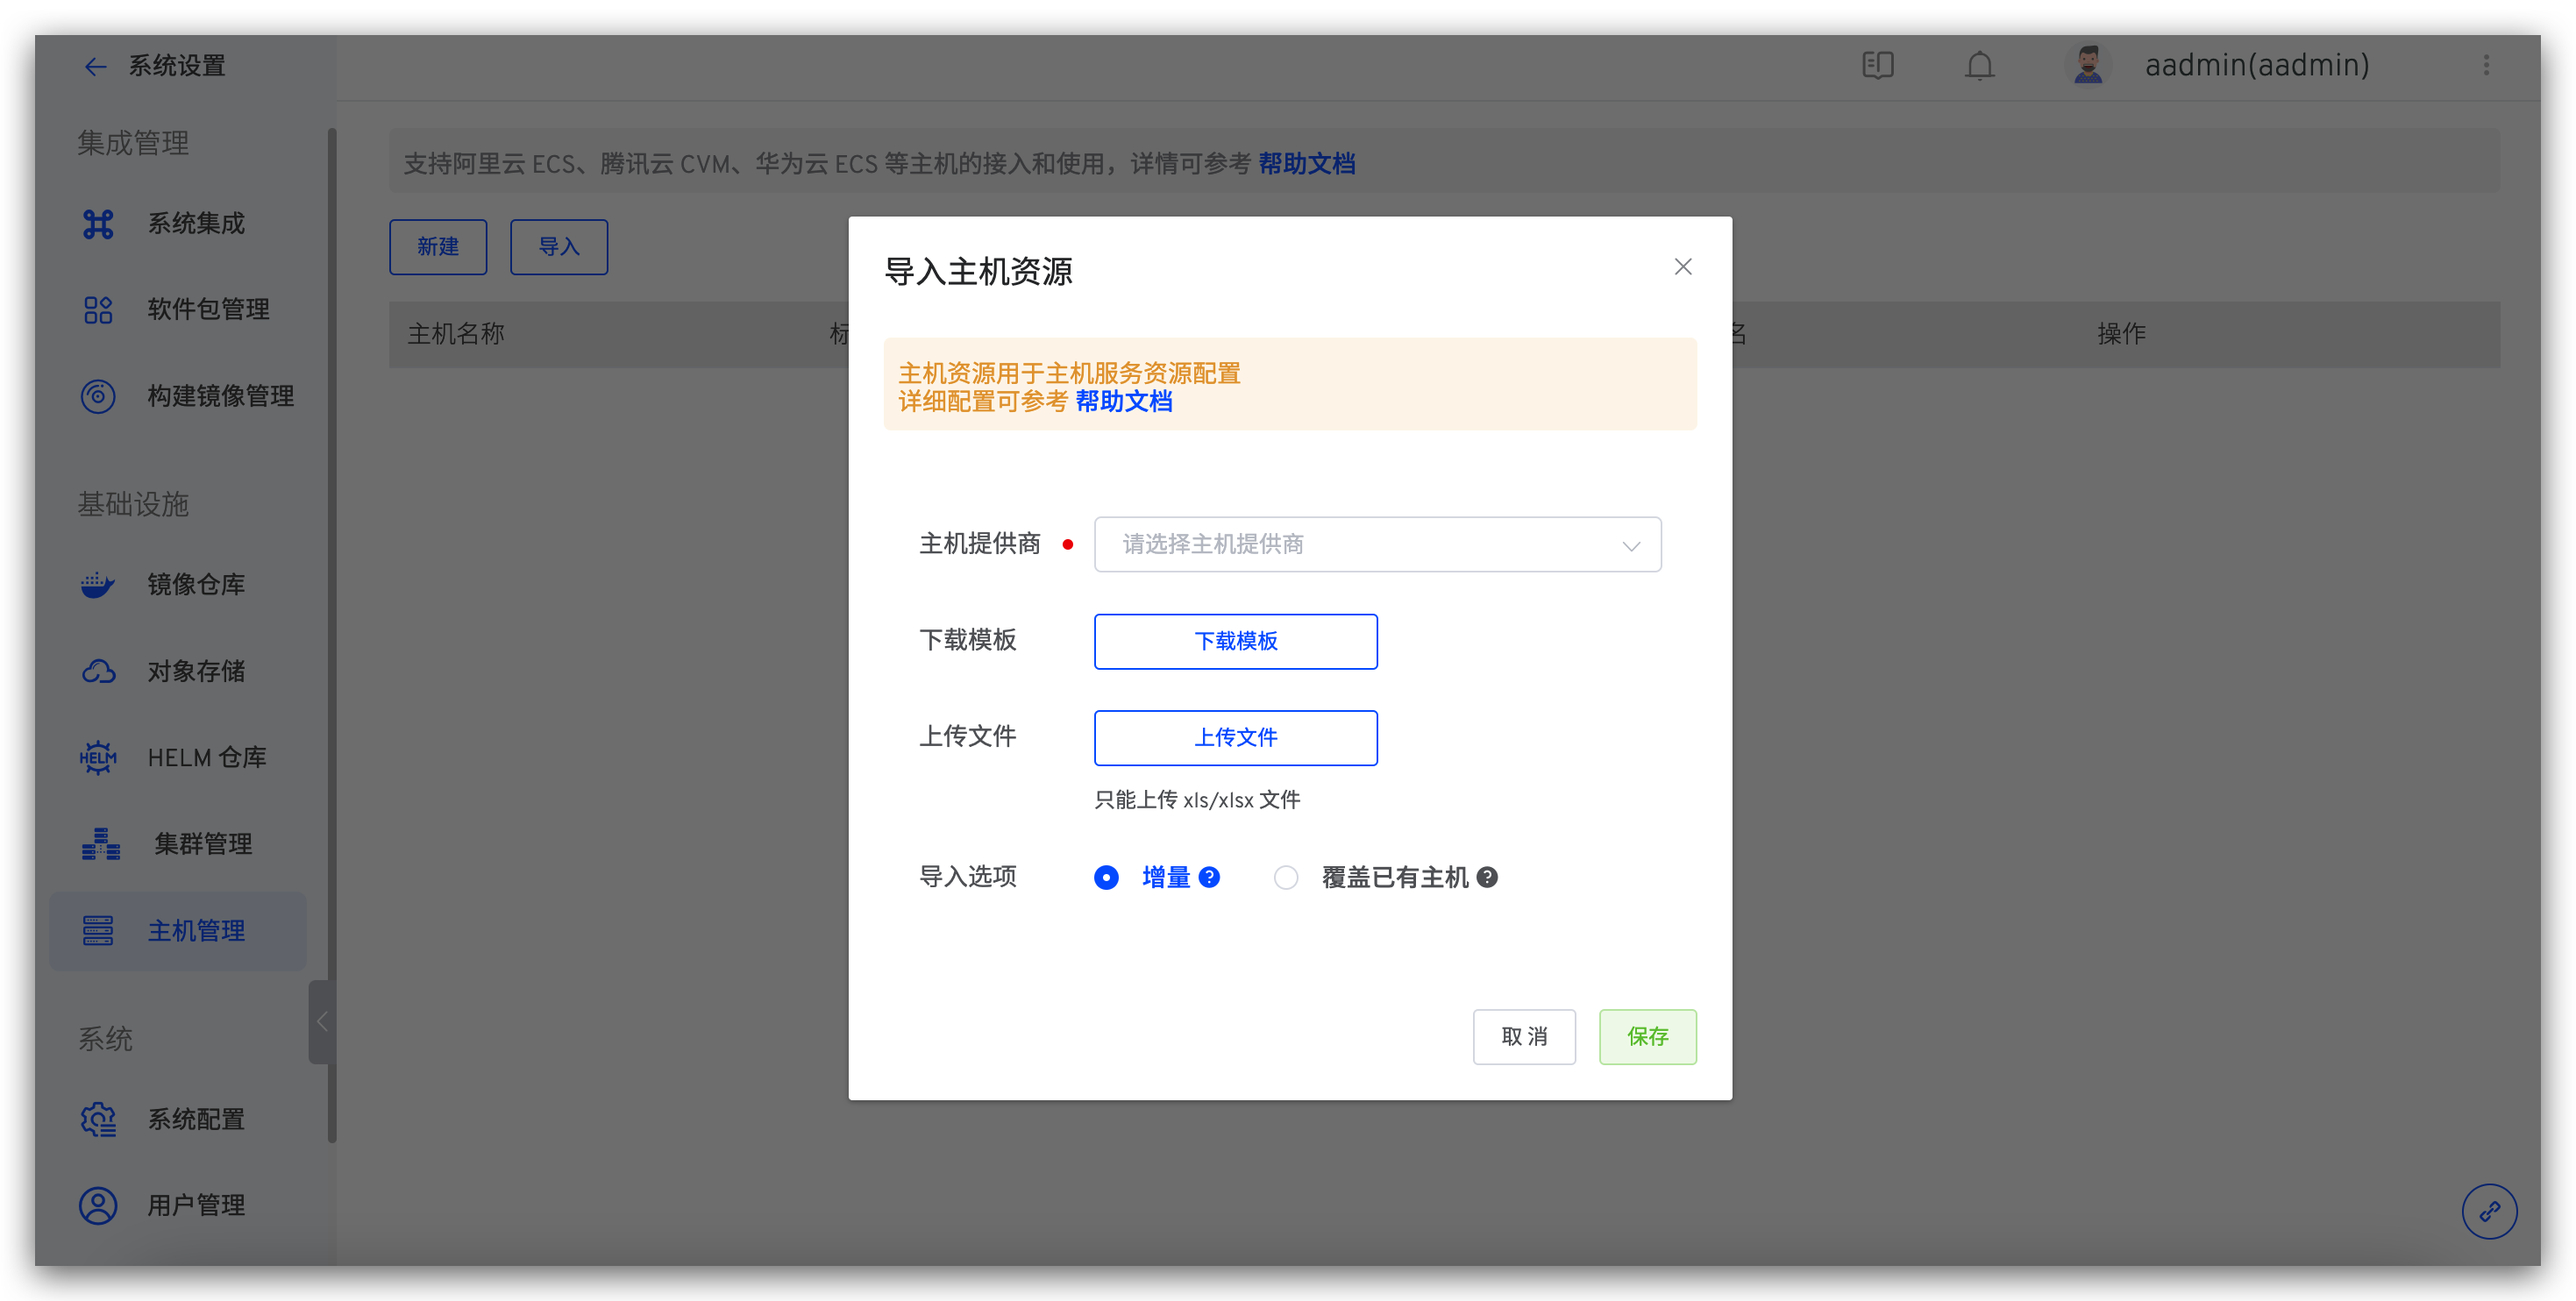
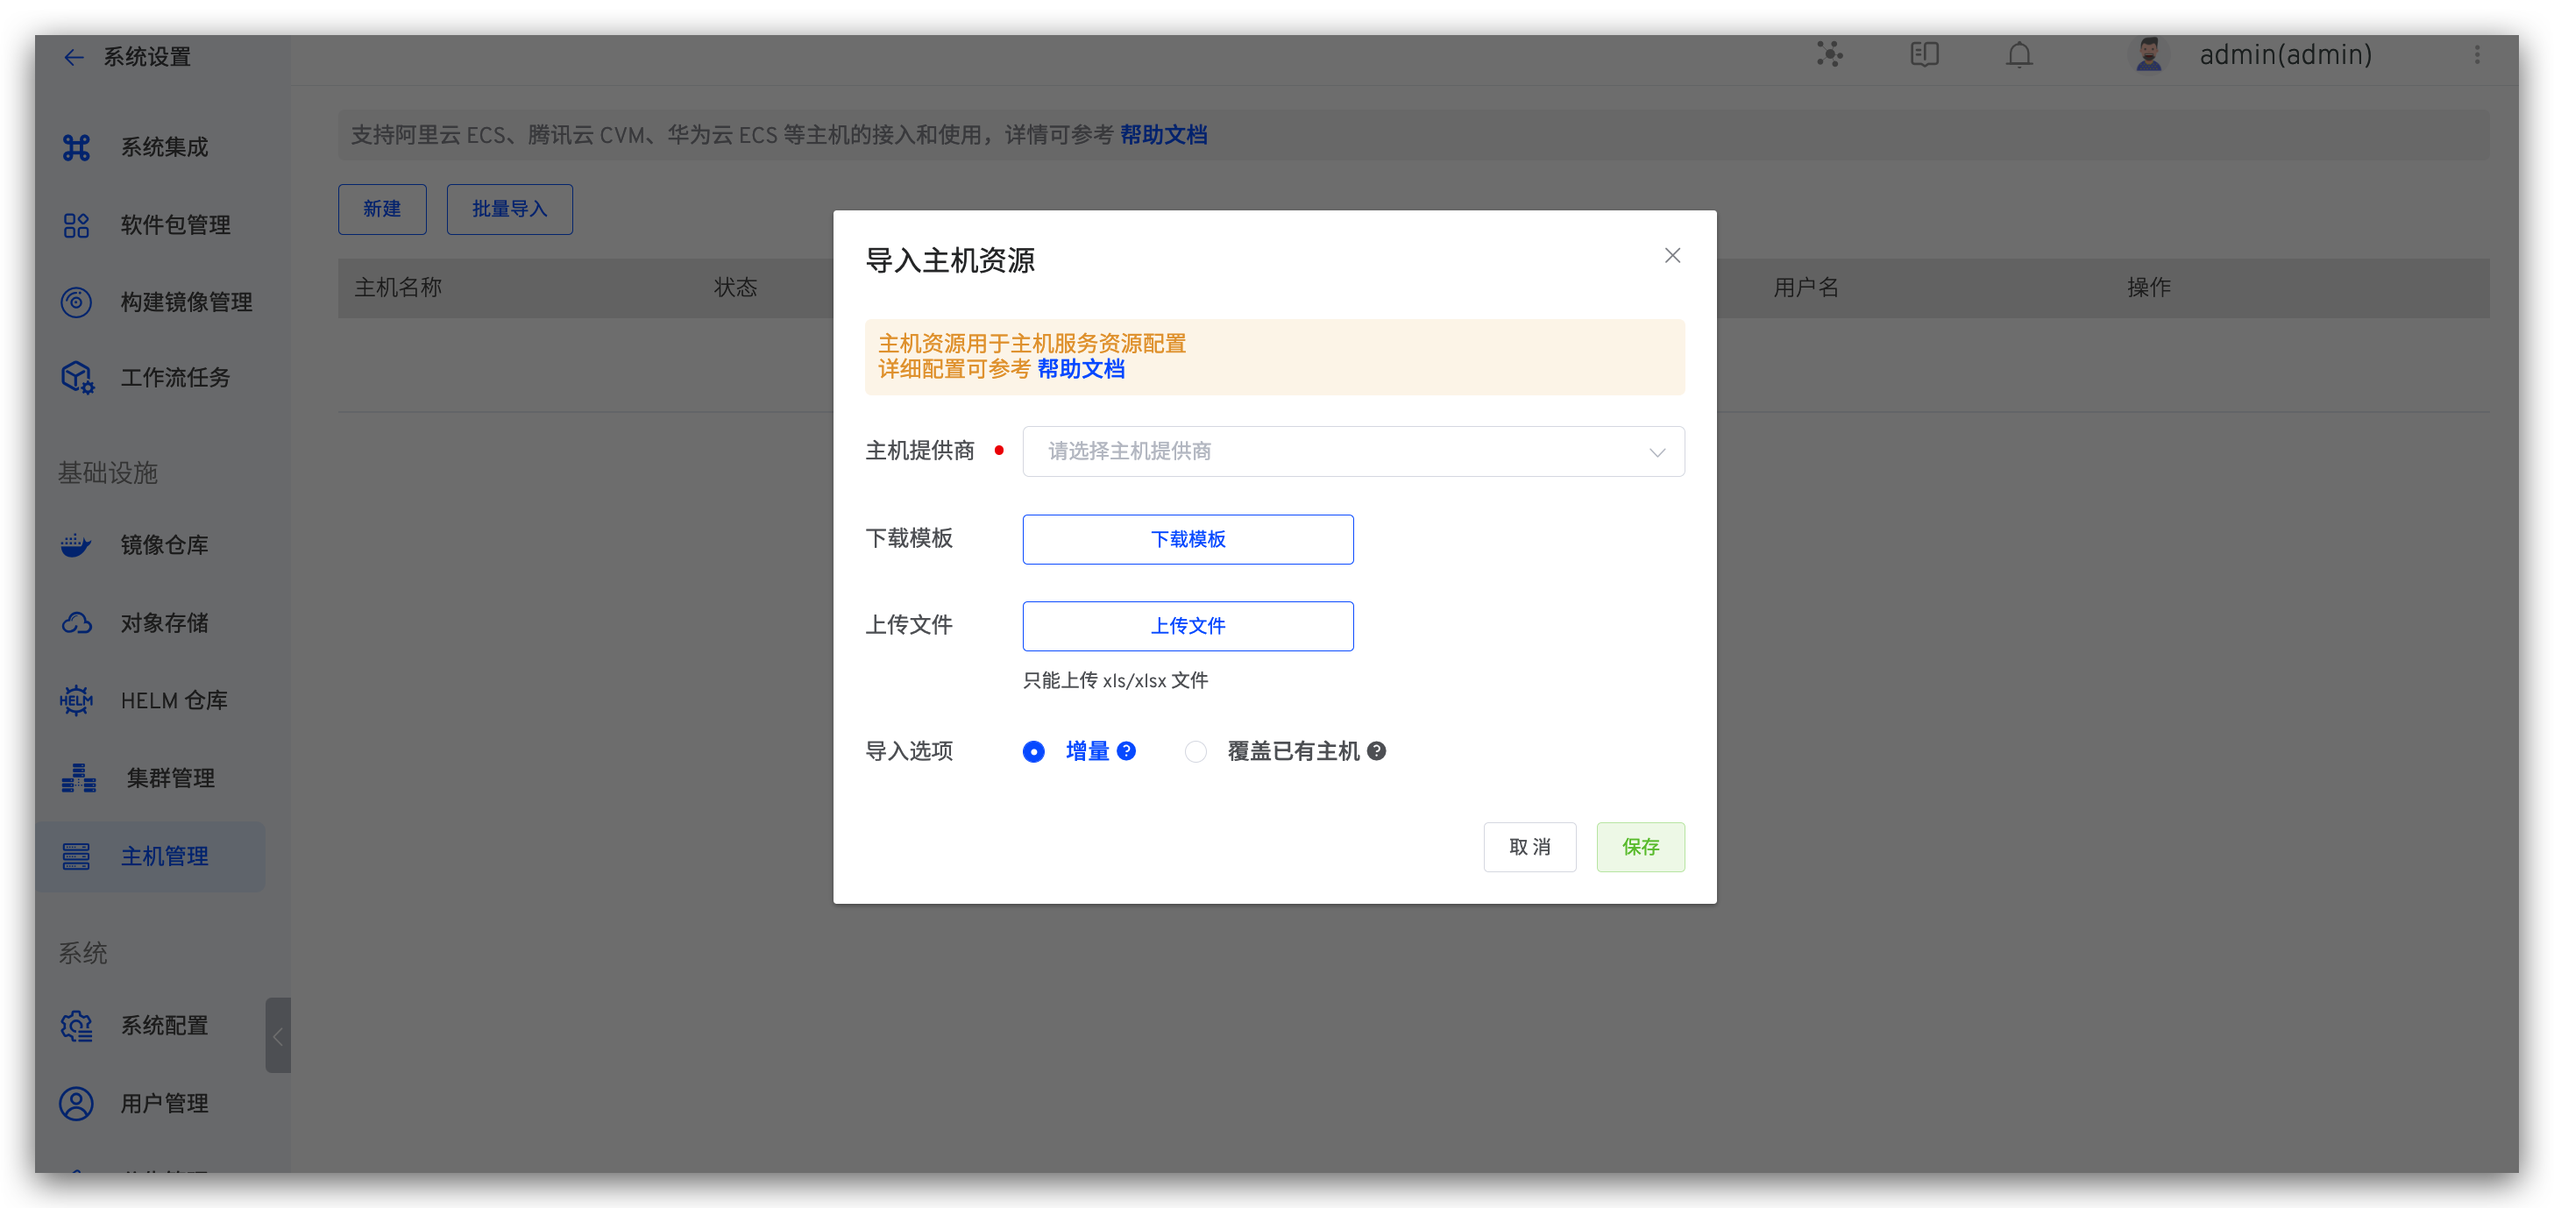
modify vm bulk import doc

diff --git a/dev/14.系统设置/23.machine_manage.md b/dev/14.系统设置/23.machine_manage.md
@@ -32,9 +32,8 @@ permalink: /dev/settings/vm-management/
     - HTTP/HTTPS 协议：按需自定义探活配置
 ![machine_probe_config_http](./_images/machine_probe_config_http.png)
 
-### 批量导入主机
+### 批量导入主机 <Badge text="企业版" />
 
-<Badge text="企业版" />
 
 管理员登录，进入 `系统设置` -> `主机管理`，点击`新建`
 
